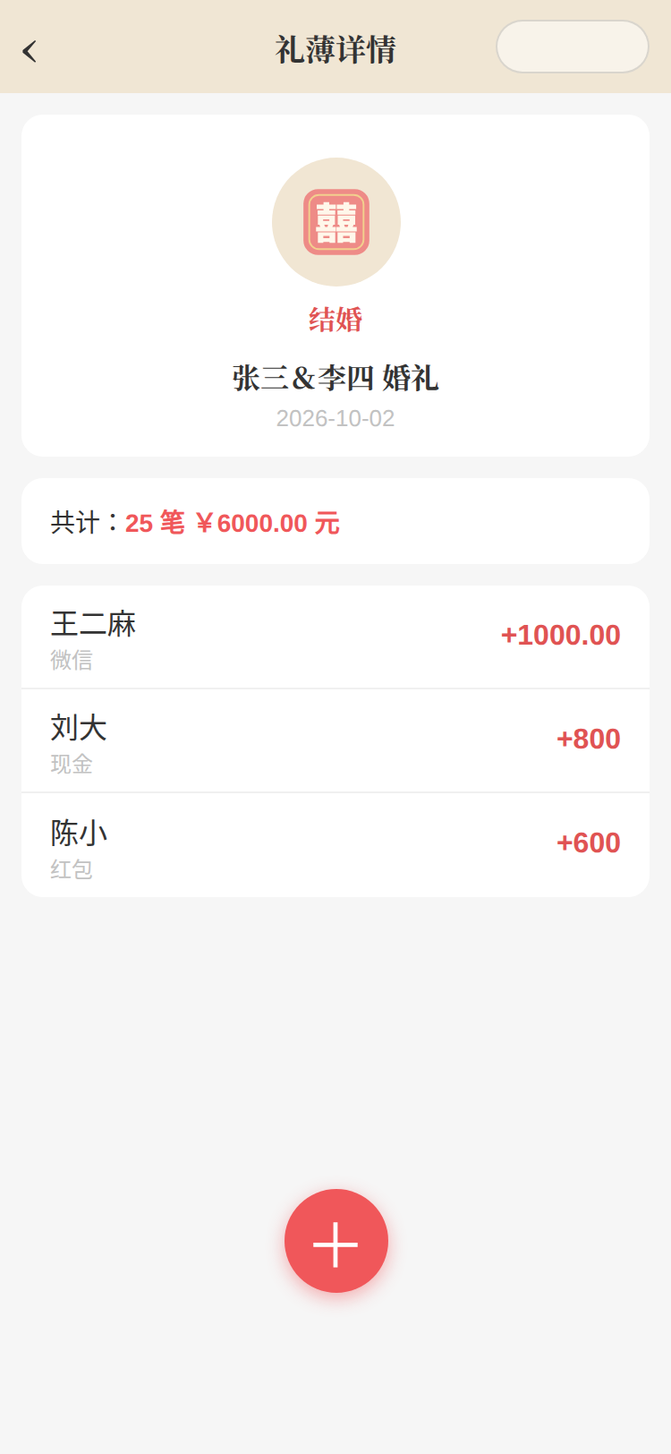
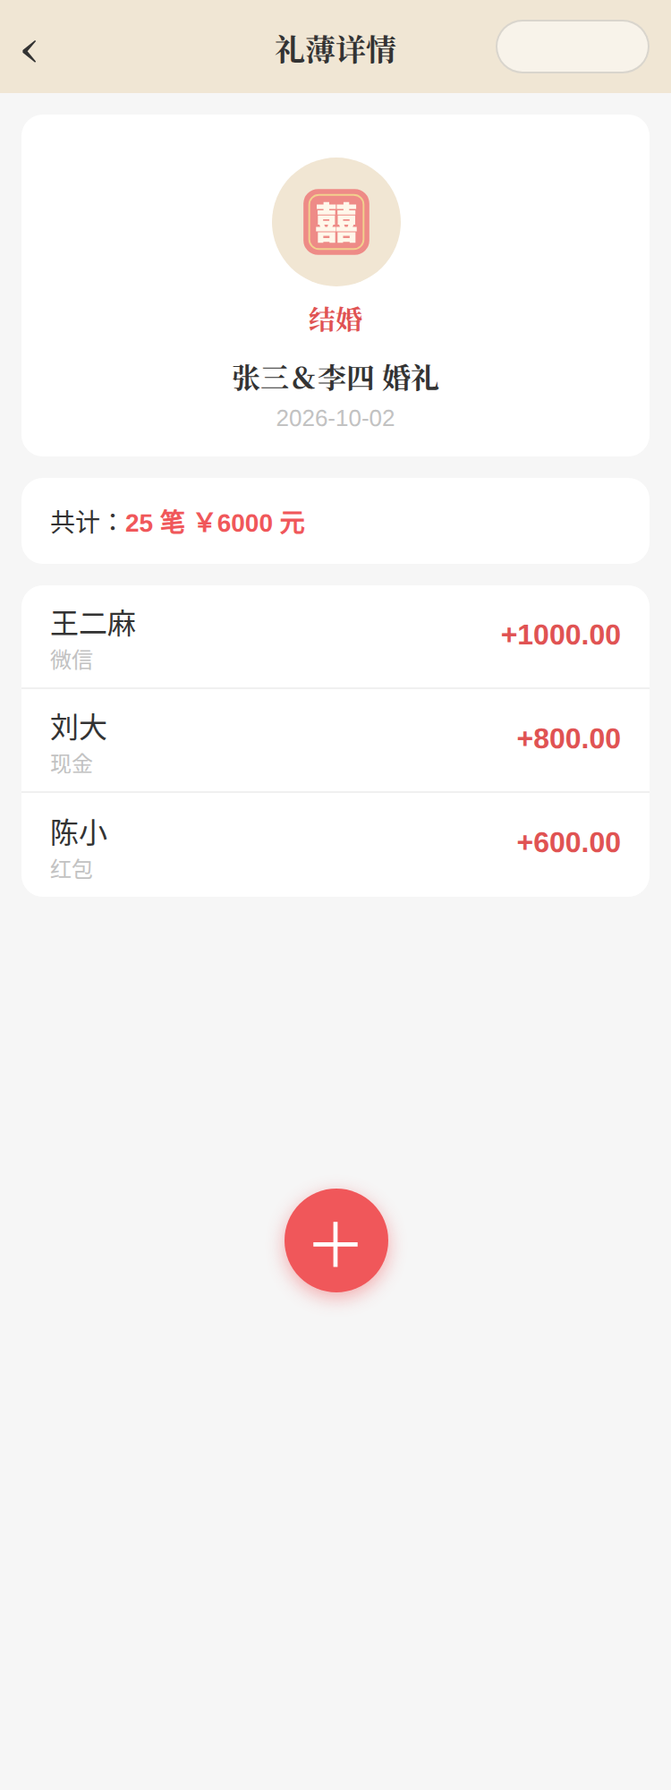
金额新规则：formatAmountInt整数场景+小数场景清单落实

diff --git a/docs/wireframes/batch1/src/03-送礼记录-有记录.html b/docs/wireframes/batch1/src/03-送礼记录-有记录.html
@@ -31,7 +31,7 @@ body{width:375px;margin:0;background:#F6F6F6;font-family:-apple-system,"PingFang
 .sheet .sopt .sub{font-size:12px;color:#C2C2C2;margin-left:8px}
 </style></head><body><div class="page">
 <div class="wf-titlebar"><span class="back">‹</span>送礼记录<span class="capsule"></span></div>
-<div class="card" style="padding:14px 16px;font-size:14px">共计：<span style="color:#F0575A;font-weight:600;font-family:var(--font-num);">3 笔 ￥2,600 元</span></div>
-<div class="card"><div class="row" style="height:68px"><div style="width:44px;height:44px;border-radius:50%;background:var(--tag-bg);display:flex;align-items:center;justify-content:center;flex:none"><img src="icons/01-jiehun.svg" style="width:30px;height:30px"></div><div style="flex:1;margin-left:12px"><div style="font-size:16px;font-weight:600;font-family:var(--font-songti);"> 张三</div><div style="font-size:12px;color:#C2C2C2;margin-top:3px">结婚｜<span class="wf-num">2026-10-02</span></div></div><div style="font-size:16px;font-weight:600;font-family:var(--font-num);">-1,000</div></div><div class="row" style="height:68px"><div style="width:44px;height:44px;border-radius:50%;background:var(--tag-bg);display:flex;align-items:center;justify-content:center;flex:none"><img src="icons/05-shengri.svg" style="width:30px;height:30px"></div><div style="flex:1;margin-left:12px"><div style="font-size:16px;font-weight:600;font-family:var(--font-songti);"> 李五</div><div style="font-size:12px;color:#C2C2C2;margin-top:3px">生日｜<span class="wf-num">2026-09-18</span></div></div><div style="font-size:16px;font-weight:600;font-family:var(--font-num);">-600</div></div><div class="row" style="height:68px"><div style="width:44px;height:44px;border-radius:50%;background:var(--tag-bg);display:flex;align-items:center;justify-content:center;flex:none"><img src="icons/07-qiaoqian.svg" style="width:30px;height:30px"></div><div style="flex:1;margin-left:12px"><div style="font-size:16px;font-weight:600;font-family:var(--font-songti);"> 王二麻</div><div style="font-size:12px;color:#C2C2C2;margin-top:3px">乔迁｜<span class="wf-num">2026-08-30</span></div></div><div style="font-size:16px;font-weight:600;font-family:var(--font-num);">-1,000</div></div></div>
+<div class="card" style="padding:14px 16px;font-size:14px">共计：<span style="color:#F0575A;font-weight:600;font-family:var(--font-num);">3 笔 ￥2600 元</span></div>
+<div class="card"><div class="row" style="height:68px"><div style="width:44px;height:44px;border-radius:50%;background:var(--tag-bg);display:flex;align-items:center;justify-content:center;flex:none"><img src="icons/01-jiehun.svg" style="width:30px;height:30px"></div><div style="flex:1;margin-left:12px"><div style="font-size:16px;font-weight:600;font-family:var(--font-songti);"> 张三</div><div style="font-size:12px;color:#C2C2C2;margin-top:3px">结婚｜<span class="wf-num">2026-10-02</span></div></div><div style="font-size:16px;font-weight:600;font-family:var(--font-num);">-1000.00</div></div><div class="row" style="height:68px"><div style="width:44px;height:44px;border-radius:50%;background:var(--tag-bg);display:flex;align-items:center;justify-content:center;flex:none"><img src="icons/05-shengri.svg" style="width:30px;height:30px"></div><div style="flex:1;margin-left:12px"><div style="font-size:16px;font-weight:600;font-family:var(--font-songti);"> 李五</div><div style="font-size:12px;color:#C2C2C2;margin-top:3px">生日｜<span class="wf-num">2026-09-18</span></div></div><div style="font-size:16px;font-weight:600;font-family:var(--font-num);">-600.00</div></div><div class="row" style="height:68px"><div style="width:44px;height:44px;border-radius:50%;background:var(--tag-bg);display:flex;align-items:center;justify-content:center;flex:none"><img src="icons/07-qiaoqian.svg" style="width:30px;height:30px"></div><div style="flex:1;margin-left:12px"><div style="font-size:16px;font-weight:600;font-family:var(--font-songti);"> 王二麻</div><div style="font-size:12px;color:#C2C2C2;margin-top:3px">乔迁｜<span class="wf-num">2026-08-30</span></div></div><div style="font-size:16px;font-weight:600;font-family:var(--font-num);">-1000.00</div></div></div>
 <div class="wf-fab">＋</div>
 </div></body></html>

diff --git a/docs/wireframes/batch2/src/04-礼薄详情.html b/docs/wireframes/batch2/src/04-礼薄详情.html
@@ -49,5 +49,5 @@ body{width:375px;margin:0;background:#F6F6F6;font-family:-apple-system,"PingFang
 .tab.active{color:#F0575A}
 </style></head><body><div class="page">
 <div class="wf-titlebar"><span class="back">‹</span>礼薄详情<span class="capsule"></span></div>
-<div class="card" style="text-align:center;padding:24px 0 14px"><div style="width:72px;height:72px;border-radius:50%;background:#F1E6D3;margin:0 auto;display:flex;align-items:center;justify-content:center"><img src="icons/01-jiehun.svg" style="width:52px;height:52px"></div><div style="font-family:var(--font-songti);color:#E05353;font-weight:700;margin-top:8px">结婚</div><div style="font-size:16px;font-weight:600;margin-top:10px;font-family:var(--font-songti);">张三＆李四 婚礼</div><div style="font-size:13px;color:#C2C2C2;margin-top:4px;font-family:var(--font-num);">2026-10-02</div></div><div class="card" style="padding:14px 16px;font-size:14px">共计：<span style="color:#F0575A;font-weight:600;font-family:var(--font-num);">25 笔 ￥6000.00 元</span></div><div class="card"><div class="row" style="height:58px"><div style="flex:1"><div style="font-size:16px">王二麻</div><div style="font-size:12px;color:#C2C2C2">微信</div></div><div style="font-size:16px;font-weight:600;color:#E05353;font-family:var(--font-num);">+1000.00</div></div><div class="row" style="height:58px"><div style="flex:1"><div style="font-size:16px">刘大</div><div style="font-size:12px;color:#C2C2C2">现金</div></div><div style="font-size:16px;font-weight:600;color:#E05353;font-family:var(--font-num);">+800</div></div><div class="row" style="height:58px"><div style="flex:1"><div style="font-size:16px">陈小</div><div style="font-size:12px;color:#C2C2C2">红包</div></div><div style="font-size:16px;font-weight:600;color:#E05353;font-family:var(--font-num);">+600</div></div></div><div class="wf-fab">＋</div>
+<div class="card" style="text-align:center;padding:24px 0 14px"><div style="width:72px;height:72px;border-radius:50%;background:#F1E6D3;margin:0 auto;display:flex;align-items:center;justify-content:center"><img src="icons/01-jiehun.svg" style="width:52px;height:52px"></div><div style="font-family:var(--font-songti);color:#E05353;font-weight:700;margin-top:8px">结婚</div><div style="font-size:16px;font-weight:600;margin-top:10px;font-family:var(--font-songti);">张三＆李四 婚礼</div><div style="font-size:13px;color:#C2C2C2;margin-top:4px;font-family:var(--font-num);">2026-10-02</div></div><div class="card" style="padding:14px 16px;font-size:14px">共计：<span style="color:#F0575A;font-weight:600;font-family:var(--font-num);">25 笔 ￥6000 元</span></div><div class="card"><div class="row" style="height:58px"><div style="flex:1"><div style="font-size:16px">王二麻</div><div style="font-size:12px;color:#C2C2C2">微信</div></div><div style="font-size:16px;font-weight:600;color:#E05353;font-family:var(--font-num);">+1000.00</div></div><div class="row" style="height:58px"><div style="flex:1"><div style="font-size:16px">刘大</div><div style="font-size:12px;color:#C2C2C2">现金</div></div><div style="font-size:16px;font-weight:600;color:#E05353;font-family:var(--font-num);">+800.00</div></div><div class="row" style="height:58px"><div style="flex:1"><div style="font-size:16px">陈小</div><div style="font-size:12px;color:#C2C2C2">红包</div></div><div style="font-size:16px;font-weight:600;color:#E05353;font-family:var(--font-num);">+600.00</div></div></div><div class="wf-fab">＋</div>
 </div></body></html>

diff --git a/docs/wireframes/batch2/src/02-收礼主页-有记录.html b/docs/wireframes/batch2/src/02-收礼主页-有记录.html
@@ -34,10 +34,10 @@ body{width:375px;margin:0;background:#F6F6F6;font-family:-apple-system,"PingFang
 <div class="horn"><span class="hi"><svg width="14" height="14" viewBox="0 0 48 48" fill="none" stroke="#555" stroke-width="3" stroke-linecap="round" stroke-linejoin="round"><path d="M10 18v12h8l10 8V10L18 18h-8z"/>
   <path d="M34 20a8 8 0 0 1 0 8"/>
   <path d="M38 15a14 14 0 0 1 0 18"/></svg></span><span class="hs"><span class="ht">点击礼簿查看收礼记录，从右往左滑动可以修改、删除礼簿~</span></span><span class="hx">×</span></div>
-<div class="total-line">共计：3本 <span class="tn wf-num">￥8800.00</span></div>
+<div class="total-line">共计：3本 <span class="tn wf-num">￥8800</span></div>
 <div class="list">
-<div class="row"><div class="rowfg"><div class="pat"><img src="icons/01-jiehun.svg"></div><div class="mid"><div><span class="nm">张三＆李四 婚礼</span><span class="dt wf-num">2026-10-02</span></div><div class="line2">共25笔 ｜ <span class="amt wf-num">￥6000.00</span></div></div><div class="more">⋯</div></div></div>
-<div class="row"><div class="swipe-bg"><div style="background:#C2C2C2">修改</div><div style="background:#F0575A">删除</div></div><div class="rowfg" style="transform:translateX(-120px)"><div class="pat"><img src="icons/05-shengri.svg"></div><div class="mid"><div><span class="nm">王五 生日宴</span><span class="dt wf-num">2026-09-18</span></div><div class="line2">共12笔 ｜ <span class="amt wf-num">￥1800.00</span></div></div><div class="more">⋯</div></div></div>
-<div class="row"><div class="rowfg"><div class="pat baishi"><img src="icons/09-baishi.svg"></div><div class="mid"><div><span class="nm">赵老先生 丧事</span><span class="dt wf-num">2026-08-30</span></div><div class="line2">共8笔 ｜ <span class="amt wf-num">￥1000.00</span></div></div><div class="more">⋯</div></div></div>
+<div class="row"><div class="rowfg"><div class="pat"><img src="icons/01-jiehun.svg"></div><div class="mid"><div><span class="nm">张三＆李四 婚礼</span><span class="dt wf-num">2026-10-02</span></div><div class="line2">共25笔 ｜ <span class="amt wf-num">￥6000</span></div></div><div class="more">⋯</div></div></div>
+<div class="row"><div class="swipe-bg"><div style="background:#C2C2C2">修改</div><div style="background:#F0575A">删除</div></div><div class="rowfg" style="transform:translateX(-120px)"><div class="pat"><img src="icons/05-shengri.svg"></div><div class="mid"><div><span class="nm">王五 生日宴</span><span class="dt wf-num">2026-09-18</span></div><div class="line2">共12笔 ｜ <span class="amt wf-num">￥1800</span></div></div><div class="more">⋯</div></div></div>
+<div class="row"><div class="rowfg"><div class="pat baishi"><img src="icons/09-baishi.svg"></div><div class="mid"><div><span class="nm">赵老先生 丧事</span><span class="dt wf-num">2026-08-30</span></div><div class="line2">共8笔 ｜ <span class="amt wf-num">￥1000</span></div></div><div class="more">⋯</div></div></div>
 </div>
 <div class="wf-fab">＋</div><div class="tabbar"><div class="tab active"><img class="ti" src="tabbar/home-active.png">首页</div><div class="tab"><img class="ti" src="tabbar/wanglai.png">往来</div><div class="tab"><img class="ti" src="tabbar/contacts.png">亲友录</div><div class="tab"><img class="ti" src="tabbar/mine.png">我的</div></div></div></body></html>

diff --git a/docs/wireframes/batch2/src/08-往来页.html b/docs/wireframes/batch2/src/08-往来页.html
@@ -64,8 +64,8 @@ body{width:375px;margin:0;background:#F6F6F6;font-family:-apple-system,"PingFang
 <div class="searchbar"><div class="searchbox">搜索姓名</div><span class="search-cancel">取消</span></div>
 <div class="timerow"><span class="tchip">今日</span><span class="tchip on">本月</span><span class="tchip">今年</span><span class="tchip">近一年</span><span class="tchip">自定义</span></div>
 <div class="daterange wf-num">2026.10.01 至 2026.10.16</div>
-<div class="compare"><div class="side"><div class="side-label">收礼</div><div class="side-amount wf-num">8800.00</div><div class="side-count">12笔</div></div><div class="side"><div class="side-label">送礼</div><div class="side-amount wf-num">2600.00</div><div class="side-count">8笔</div></div></div>
+<div class="compare"><div class="side"><div class="side-label">收礼</div><div class="side-amount wf-num">8800</div><div class="side-count">12笔</div></div><div class="side"><div class="side-label">送礼</div><div class="side-amount wf-num">2600</div><div class="side-count">8笔</div></div></div>
 <div class="total-line">合计：20 笔 · 12 位亲友</div>
-<div class="diff"><div>差额 6200.00</div></div>
-<div class="card"><div class="row"><div style="flex:1;font-size:16px">张三</div><div style="font-size:13px;color:#C2C2C2;font-family:var(--font-num);">3笔 ｜ +2000.00</div><span class="chev" style="margin-left:8px">›</span></div><div class="row"><div style="flex:1;font-size:16px">李五</div><div style="font-size:13px;color:#C2C2C2;font-family:var(--font-num);">2笔 ｜ -400.00</div><span class="chev" style="margin-left:8px">›</span></div><div class="row"><div style="flex:1;font-size:16px">王二麻</div><div style="font-size:13px;color:#C2C2C2;font-family:var(--font-num);">4笔 ｜ +1600.00</div><span class="chev" style="margin-left:8px">›</span></div></div>
+<div class="diff"><div>差额 6200</div></div>
+<div class="card"><div class="row"><div style="flex:1;font-size:16px">张三</div><div style="font-size:13px;color:#C2C2C2;font-family:var(--font-num);">3笔 ｜ +2000</div><span class="chev" style="margin-left:8px">›</span></div><div class="row"><div style="flex:1;font-size:16px">李五</div><div style="font-size:13px;color:#C2C2C2;font-family:var(--font-num);">2笔 ｜ -400</div><span class="chev" style="margin-left:8px">›</span></div><div class="row"><div style="flex:1;font-size:16px">王二麻</div><div style="font-size:13px;color:#C2C2C2;font-family:var(--font-num);">4笔 ｜ +1600</div><span class="chev" style="margin-left:8px">›</span></div></div>
 <div class="tabbar"><div class="tab"><img class="ti" src="tabbar/home.png">首页</div><div class="tab active"><img class="ti" src="tabbar/wanglai-active.png">往来</div><div class="tab"><img class="ti" src="tabbar/contacts.png">亲友录</div><div class="tab"><img class="ti" src="tabbar/mine.png">我的</div></div></div></body></html>

diff --git a/docs/wireframes/batch2/src/10-成员视角往来页.html b/docs/wireframes/batch2/src/10-成员视角往来页.html
@@ -68,8 +68,8 @@ body{width:375px;margin:0;background:#F6F6F6;font-family:-apple-system,"PingFang
 <div class="timerow"><span class="tchip">今日</span><span class="tchip on">本月</span><span class="tchip">今年</span><span class="tchip">近一年</span><span class="tchip">自定义▾</span></div>
 <div class="daterange wf-num">2026.10.01 至 2026.10.16</div>
 <div class="searchbar"><div class="searchbox">搜索姓名</div><span class="search-cancel">取消</span></div>
-<div class="compare"><div class="side"><div class="side-label">收礼</div><div class="side-amount wf-num">5300.00</div><div class="side-count">7笔</div></div><div class="side"><div class="side-label">送礼</div><div class="side-amount wf-num">2100.00</div><div class="side-count">5笔</div></div></div>
+<div class="compare"><div class="side"><div class="side-label">收礼</div><div class="side-amount wf-num">5300</div><div class="side-count">7笔</div></div><div class="side"><div class="side-label">送礼</div><div class="side-amount wf-num">2100</div><div class="side-count">5笔</div></div></div>
 <div class="total-line">合计：12 笔 · 3 位亲友</div>
-<div class="diff"><div>差额 3200.00</div></div>
-<div class="card"><div class="row"><div style="flex:1;font-size:16px">张三</div><div style="font-size:13px;color:#C2C2C2;font-family:var(--font-num);">3笔 ｜ +2000.00</div><span class="chev" style="margin-left:8px">›</span></div><div class="row"><div style="flex:1;font-size:16px">李五</div><div style="font-size:13px;color:#C2C2C2;font-family:var(--font-num);">2笔 ｜ -400.00</div><span class="chev" style="margin-left:8px">›</span></div><div class="row"><div style="flex:1;font-size:16px">王二麻</div><div style="font-size:13px;color:#C2C2C2;font-family:var(--font-num);">4笔 ｜ +1600.00</div><span class="chev" style="margin-left:8px">›</span></div></div>
+<div class="diff"><div>差额 3200</div></div>
+<div class="card"><div class="row"><div style="flex:1;font-size:16px">张三</div><div style="font-size:13px;color:#C2C2C2;font-family:var(--font-num);">3笔 ｜ +2000</div><span class="chev" style="margin-left:8px">›</span></div><div class="row"><div style="flex:1;font-size:16px">李五</div><div style="font-size:13px;color:#C2C2C2;font-family:var(--font-num);">2笔 ｜ -400</div><span class="chev" style="margin-left:8px">›</span></div><div class="row"><div style="flex:1;font-size:16px">王二麻</div><div style="font-size:13px;color:#C2C2C2;font-family:var(--font-num);">4笔 ｜ +1600</div><span class="chev" style="margin-left:8px">›</span></div></div>
 <div class="tabbar"><div class="tab"><img class="ti" src="tabbar/home.png">首页</div><div class="tab active"><img class="ti" src="tabbar/wanglai-active.png">往来</div><div class="tab"><img class="ti" src="tabbar/contacts.png">亲友录</div><div class="tab"><img class="ti" src="tabbar/mine.png">我的</div></div></div></body></html>

diff --git a/tests/test-amount-scan.js b/tests/test-amount-scan.js
@@ -3,6 +3,8 @@
  * 规则：core/format.js 是全产品唯一的金额显示入口。
  * - miniprogram/**（页面/组件/服务）的 .js 与 .wxml 里，不许出现 /100、toFixed(、toLocaleString(
  * - core/**（除 format.js）里，不许出现 toFixed(、toLocaleString(
+ * - 全仓库调用的金额格式化函数名必须在允许名单内（formatAmount / formatAmountInt），
+ *   新增自创的金额格式化函数会导致本测试失败（用户 2026-10-18 拍板：整数显示入口）。
  * 新增绕过写法会导致本测试失败。
  */
 const { test, assert } = require('./fw');
@@ -99,7 +101,7 @@ function scan(files, patterns) {
     const clean = stripNoise(fs.readFileSync(f, 'utf8'));
     for (const p of patterns) {
       if (p.re.test(clean)) {
-        hits.push(path.relative(ROOT, f) + '：发现「' + p.name + '」，请改调 core/format.js 的 formatAmount');
+        hits.push(path.relative(ROOT, f) + '：发现「' + p.name + '」，请改调 core/format.js 的 formatAmount / formatAmountInt');
       }
     }
   }
@@ -114,4 +116,23 @@ test('金额显示无绕过：miniprogram 页面/组件/服务', () => {
 test('金额显示无绕过：core（format.js 除外）', () => {
   const hits = scan(CORE_JS, PATTERNS_CORE);
   assert(hits.length === 0, hits.length ? '绕过写法：\n' + hits.join('\n') : '无绕过');
+});
+
+// 金额格式化函数允许名单：全仓库只许调这两个（零容忍）
+const FORMAT_ALLOWLIST = ['formatAmount', 'formatAmountInt'];
+
+test('金额格式化函数只许用允许名单（formatAmount / formatAmountInt）', () => {
+  const files = MINI_JS.concat(CORE_JS);
+  const hits = [];
+  for (const f of files) {
+    const clean = stripNoise(fs.readFileSync(f, 'utf8'));
+    const re = /\b([A-Za-z_$][A-Za-z0-9_$]*[Ff]ormat[A-Za-z0-9_$]*)\s*\(/g;
+    let m;
+    while ((m = re.exec(clean)) !== null) {
+      if (FORMAT_ALLOWLIST.indexOf(m[1]) < 0) {
+        hits.push(path.relative(ROOT, f) + '：发现名单外的金额格式化函数「' + m[1] + '」，请改调 formatAmount / formatAmountInt');
+      }
+    }
+  }
+  assert(hits.length === 0, hits.length ? '名单外函数：\n' + hits.join('\n') : '全部在名单内');
 });

diff --git a/core/format.js b/core/format.js
@@ -1,9 +1,16 @@
 /**
  * 礼单簿 · 金额显示唯一入口（检查点1修改意见第4条，高风险：金额）
  *
- * 铁律：全产品任何位置显示金额，必须调 formatAmount，页面里不许自己拼
- * （不许再出现 amount/100、toFixed、toLocaleString 拼金额）。
+ * 铁律：全产品任何位置显示金额，必须调 formatAmount 或 formatAmountInt，
+ * 页面里不许自己拼（不许再出现 amount/100、toFixed、toLocaleString 拼金额）。
  * 金额在数据库里永远以"分"（整数）存储，大写/显示只是表现层。
+ *
+ * 显示规则（用户 2026-10-18 拍板，新冻结规则）：
+ * - 两位小数（formatAmount）：送礼列表、收礼记录列表、往来竖线树（条目+汇总）、
+ *   送礼详情、收礼详情；以及所有金额输入框的回填（编辑态，不四舍五入显示）。
+ * - 整数（formatAmountInt）：其他一切金额显示（往来页总额/差额/亲友行、共计行、
+ *   导出概览、会员额度页、共享总额等）。
+ * - Excel 导出（core/export-xlsx.js）不受此规则影响，仍为数值单元格 0.00 格式。
  */
 
 /**
@@ -21,6 +28,20 @@ function formatAmount(fen) {
   const yuan = Math.floor(abs / 100);
   const cents = abs % 100;
   return `${sign}${yuan}.${String(cents).padStart(2, '0')}`;
+}
+
+/**
+ * 分 → 整数元字符串（四舍五入到元）
+ * 显示规则（用户 2026-10-18 拍板）：除"两位小数"清单内的位置外，
+ * 其他一切金额显示一律用本函数（整数）。
+ * @param {number} fen 整数分，可为负（符号由调用方按规则加）
+ * @returns {string} 如 100005 → "1000"；100050 → "1001"；0 → "0"；-100000 → "-1000"
+ * 非有限数字一律返回 "0"（显示层永不抛错）。
+ */
+function formatAmountInt(fen) {
+  const n = Number(fen);
+  if (!Number.isFinite(n)) return '0';
+  return String(Math.round(n / 100));
 }
 
 /**
@@ -118,4 +139,4 @@ function amountToChineseUpper(fen) {
   return s;
 }
 
-module.exports = { formatAmount, parseAmountToFen, amountToChineseUpper };
+module.exports = { formatAmount, formatAmountInt, parseAmountToFen, amountToChineseUpper };

diff --git a/miniprogram/core/format.js b/miniprogram/core/format.js
@@ -1,9 +1,16 @@
 /**
  * 礼单簿 · 金额显示唯一入口（检查点1修改意见第4条，高风险：金额）
  *
- * 铁律：全产品任何位置显示金额，必须调 formatAmount，页面里不许自己拼
- * （不许再出现 amount/100、toFixed、toLocaleString 拼金额）。
+ * 铁律：全产品任何位置显示金额，必须调 formatAmount 或 formatAmountInt，
+ * 页面里不许自己拼（不许再出现 amount/100、toFixed、toLocaleString 拼金额）。
  * 金额在数据库里永远以"分"（整数）存储，大写/显示只是表现层。
+ *
+ * 显示规则（用户 2026-10-18 拍板，新冻结规则）：
+ * - 两位小数（formatAmount）：送礼列表、收礼记录列表、往来竖线树（条目+汇总）、
+ *   送礼详情、收礼详情；以及所有金额输入框的回填（编辑态，不四舍五入显示）。
+ * - 整数（formatAmountInt）：其他一切金额显示（往来页总额/差额/亲友行、共计行、
+ *   导出概览、会员额度页、共享总额等）。
+ * - Excel 导出（core/export-xlsx.js）不受此规则影响，仍为数值单元格 0.00 格式。
  */
 
 /**
@@ -21,6 +28,20 @@ function formatAmount(fen) {
   const yuan = Math.floor(abs / 100);
   const cents = abs % 100;
   return `${sign}${yuan}.${String(cents).padStart(2, '0')}`;
+}
+
+/**
+ * 分 → 整数元字符串（四舍五入到元）
+ * 显示规则（用户 2026-10-18 拍板）：除"两位小数"清单内的位置外，
+ * 其他一切金额显示一律用本函数（整数）。
+ * @param {number} fen 整数分，可为负（符号由调用方按规则加）
+ * @returns {string} 如 100005 → "1000"；100050 → "1001"；0 → "0"；-100000 → "-1000"
+ * 非有限数字一律返回 "0"（显示层永不抛错）。
+ */
+function formatAmountInt(fen) {
+  const n = Number(fen);
+  if (!Number.isFinite(n)) return '0';
+  return String(Math.round(n / 100));
 }
 
 /**
@@ -118,4 +139,4 @@ function amountToChineseUpper(fen) {
   return s;
 }
 
-module.exports = { formatAmount, parseAmountToFen, amountToChineseUpper };
+module.exports = { formatAmount, formatAmountInt, parseAmountToFen, amountToChineseUpper };

diff --git a/miniprogram/pages/wanglai/wanglai.js b/miniprogram/pages/wanglai/wanglai.js
@@ -7,7 +7,7 @@
  * ?ownerId=xxx 时为成员视角：顶部淡字"仅统计已授权给你的记录"。
  */
 const dataService = require('../../services/data-service.js');
-const { formatAmount } = require('../../core/format.js');
+const { formatAmountInt } = require('../../core/format.js');
 
 const RANGES = [
   { id: 'today', name: '今日' },
@@ -87,8 +87,8 @@ Page({
       const rows = r.rows.map((x) => ({
         ...x,
         countText: `${x.count}笔`,
-        // 方向靠 +/- 号表达（冻结决策：不用红绿蓝三色表示方向）
-        diffText: `${x.diffFen < 0 ? '-' : '+'}${formatAmount(Math.abs(x.diffFen))}`,
+        // 往来页金额一律整数（用户 2026-10-18 拍板）；方向靠 +/- 号表达
+        diffText: `${x.diffFen < 0 ? '-' : '+'}${formatAmountInt(Math.abs(x.diffFen))}`,
       }));
       const totalCount = r.totalReceiveCount + r.totalGiftCount;
       this.setData({
@@ -96,13 +96,13 @@ Page({
         rows,
         isMember: r.isMember,
         rangeText: `${dotDate(r.from)} 至 ${dotDate(r.to)}`,
-        receiveTotalText: formatAmount(r.totalReceiveFen),
+        receiveTotalText: formatAmountInt(r.totalReceiveFen),
         receiveCountText: `${r.totalReceiveCount}笔`,
-        giftTotalText: formatAmount(r.totalGiftFen),
+        giftTotalText: formatAmountInt(r.totalGiftFen),
         giftCountText: `${r.totalGiftCount}笔`,
         totalText: `合计：${totalCount} 笔 · ${rows.length} 位亲友`,
-        // 差额只显示绝对值，不加符号
-        diffText: `差额 ${formatAmount(Math.abs(r.diffFen))}`,
+        // 差额只显示绝对值，不加符号；往来页金额一律整数
+        diffText: `差额 ${formatAmountInt(Math.abs(r.diffFen))}`,
       });
     } catch (e) {
       wx.showModal({ title: '提示', content: e.message, showCancel: false });

diff --git a/docs/wireframes/batch2/src/01-收礼主页-空状态.html b/docs/wireframes/batch2/src/01-收礼主页-空状态.html
@@ -23,5 +23,5 @@ body{width:375px;margin:0;background:#F6F6F6;font-family:-apple-system,"PingFang
 <div class="horn"><span class="hi"><svg width="14" height="14" viewBox="0 0 48 48" fill="none" stroke="#555" stroke-width="3" stroke-linecap="round" stroke-linejoin="round"><path d="M10 18v12h8l10 8V10L18 18h-8z"/>
   <path d="M34 20a8 8 0 0 1 0 8"/>
   <path d="M38 15a14 14 0 0 1 0 18"/></svg></span><span class="hs"><span class="ht">点击礼簿查看收礼记录，从右往左滑动可以修改、删除礼簿~</span></span><span class="hx">×</span></div>
-<div class="total-line">共计：0本 <span class="tn wf-num">￥0.00</span></div>
+<div class="total-line">共计：0本 <span class="tn wf-num">￥0</span></div>
 <div class="empty"><span class="eicon"><svg width="72" height="72" viewBox="0 0 48 48" fill="none" stroke="#555" stroke-width="3" stroke-linecap="round" stroke-linejoin="round"><path d="M8 14a4 4 0 0 1 4-4h8l4 6h12a4 4 0 0 1 4 4v16a4 4 0 0 1-4 4H12a4 4 0 0 1-4-4V14z"/></svg></span><span class="etxt">还没有礼薄，点击下方红色＋按钮添加</span><span class="esample">点击查看示例</span></div><div class="wf-fab">＋</div><div class="tabbar"><div class="tab active"><img class="ti" src="tabbar/home-active.png">首页</div><div class="tab"><img class="ti" src="tabbar/wanglai.png">往来</div><div class="tab"><img class="ti" src="tabbar/contacts.png">亲友录</div><div class="tab"><img class="ti" src="tabbar/mine.png">我的</div></div></div></body></html>

diff --git a/tests/test-format.js b/tests/test-format.js
@@ -1,6 +1,6 @@
 /** 金额显示函数单元测试（检查点1修改意见第4条，高风险：金额） */
 const { test, assert } = require('./fw');
-const { formatAmount, parseAmountToFen } = require('../core/format');
+const { formatAmount, formatAmountInt, parseAmountToFen } = require('../core/format');
 
 // --- formatAmount：分 → "x.xx" ---
 test('formatAmount: 0分 → "0.00"', () => {
@@ -74,4 +74,27 @@ test('parseAmountToFen 与 formatAmount 往返一致', () => {
     const fen = parseAmountToFen(s);
     assert.eq(formatAmount(fen), parseFloat(s).toFixed(2), 'roundtrip ' + s);
   }
+});
+
+// --- formatAmountInt：分 → 整数元（用户 2026-10-18 拍板：非小数清单位置一律整数）---
+test('formatAmountInt: 100005分 → "1000"（四舍五入）', () => {
+  assert.eq(formatAmountInt(100005), '1000', 'round down');
+});
+
+test('formatAmountInt: 100050分 → "1001"（四舍五入进位）', () => {
+  assert.eq(formatAmountInt(100050), '1001', 'round up');
+});
+
+test('formatAmountInt: 0分 → "0"', () => {
+  assert.eq(formatAmountInt(0), '0', 'zero');
+});
+
+test('formatAmountInt: 负数 -100000分 → "-1000"', () => {
+  assert.eq(formatAmountInt(-100000), '-1000', 'negative');
+});
+
+test('formatAmountInt: 非数字输入不抛错，返回 "0"', () => {
+  assert.eq(formatAmountInt(NaN), '0', 'nan');
+  assert.eq(formatAmountInt(undefined), '0', 'undefined');
+  assert.eq(formatAmountInt('abc'), '0', 'string');
 });

diff --git a/miniprogram/pages/receive/receive.js b/miniprogram/pages/receive/receive.js
@@ -3,11 +3,12 @@
  * 结构：标题「收礼礼簿」→ 小喇叭提示条（可关闭，状态存本地）→ 淡色共计行 →
  * 列表（图案/名称+日期/共N笔|¥金额/⋯）→ 右滑出现修改/删除 → 底部中间红色＋。
  * 标题/礼薄名称用宋体栈，金额/日期用黑体（系统默认），不引入外部字体。
- * 金额一律两位小数（formatAmount），图案一律 tagIconPath。
+ * 金额规则（用户 2026-10-18 拍板）：列表行两位小数（formatAmount），
+ * 共计行整数（formatAmountInt）；图案一律 tagIconPath。
  */
 const dataService = require('../../services/data-service.js');
 const { tagIconPath } = require('../../config/tag-icons.js');
-const { formatAmount } = require('../../core/format.js');
+const { formatAmount, formatAmountInt } = require('../../core/format.js');
 
 const HORN_KEY = 'receiveHornClosed';
 const SWIPE_W = 150; // 修改75 + 删除75
@@ -47,7 +48,7 @@ Page({
         name: e.name,
         date: e.date || '',
         count: st.count,
-        amtText: formatAmount(st.totalFen),
+        amtText: formatAmountInt(st.totalFen),
         icon: tagIconPath(tag.id),
         isBaishi: e.tagId === 'baishi',
         offset: 0,
@@ -57,7 +58,7 @@ Page({
       events: rows,
       hasEvents: rows.length > 0,
       totalCount: rows.length,
-      totalText: formatAmount(totalFen),
+      totalText: formatAmountInt(totalFen),
     });
   },
 
